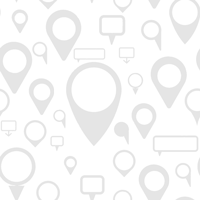
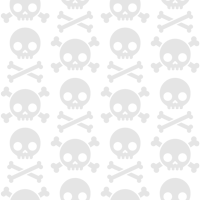
got remaining functionality working, removed unused files, still needs live testing

diff --git a/templates/index.html b/templates/index.html
@@ -1,7 +1,7 @@
 <!doctype html>
 <html lang="en">
   <head>
-    <title>RasPi Ruxpin</title>
+    <title>RasPi Ruxpin - {{ character.name }}</title>
 
     <meta charset="utf-8" />
     <meta name="description" content="Make the bear talk" />
@@ -11,7 +11,7 @@
     <link href="https://cdn.jsdelivr.net/npm/bootstrap@5.1.3/dist/css/bootstrap.min.css" rel="stylesheet" integrity="sha384-1BmE4kWBq78iYhFldvKuhfTAU6auU8tT94WrHftjDbrCEXSU1oBoqyl2QvZ6jIW3" crossorigin="anonymous" />
     <link href="/public/css/main.css" rel="stylesheet" type="text/css" />
 
-    <script src="https://use.fontawesome.com/12a0b300c5.js"></script>
+    <script src="https://kit.fontawesome.com/fb88151f7c.js" crossorigin="anonymous"></script>
   </head>
   <body>
     <div id="app" class="container">
@@ -21,7 +21,7 @@
           <div class="row">
             <legend class="col-form-label col-3 pt-0">Status</legend>
             <div class="col-5">
-              <h1><span class="badge badge-lg" v-bind:class="this.$socket.connected ? 'bg-success' : 'bg-danger'">{%raw%}{{ this.$socket.connected ? 'connected' : 'disconnected' }}{%endraw%}</span></h1>
+              <h2><span class="badge" v-bind:class="this.$socket.connected ? 'bg-success' : 'bg-danger'">{%raw%}{{ this.$socket.connected ? 'connected' : 'disconnected' }}{%endraw%}</span></h2>
             </div>
           </div>
           <div class="row mb-3">
@@ -37,8 +37,8 @@
         <div class="row mb-3 card-body">
           <div class="col-6">
             <map name="mapBear">
-              <area shape="rect" coords="0,0,200,100" alt="toggle eye state" @click="toggleEyes()" />
-              <area shape="rect" coords="0,100,200,200" alt="toggle mouth state" @click="toggleMouth()" />
+              <area shape="rect" coords="0,0,200,100" alt="toggle eye state" @click="toggleFeature('eyes')" />
+              <area shape="rect" coords="0,100,200,200" alt="toggle mouth state" @click="toggleFeature('mouth')" />
             </map>
             <img v-bind:src="bearimg" class="img-fluid mx-auto d-block" usemap="#mapBear">  
           </div>
@@ -67,28 +67,21 @@
       <div v-if="mode=='speak'" id="divSpeakMode" class="card">
         <div class="card-body">
           <div class="row mb-3">
-            <legend class="col-form-label col-3 pt-0">Volume</legend>
+            <legend class="col-form-label col-3 pt-0">Volume ({%raw%}{{volume}}{%endraw%})</legend>
             <div class="col-9">
-              <div class="input-group">
-                <input id="txtVolume" class="form-control" placeholder="70">
-                <span class="input-group-btn">
-                  <button id="btnVolume" class="btn btn-primary">
-                    <span class="fa fa-volume-up" role="status" aria-hidden="true"></span>
-                  </button>
-                </span>
-              </div>
+              <input type="range" class="form-range" min="0" max="100" step="10" v-model="volume" @change="setVolume" :disabled="playing || speaking" />
             </div>
           </div>
           <div class="row mb-3">
             <div class="col-12">
               <div class="input-group">
-                <select v-model="filename" class="form-control">
+                <select v-model="filename" class="form-control" :disabled="playing || speaking">
                   <option value="">Select a pre-recorded sound file</option>
                   <option v-for="(value, key) in phrases" v-bind:value="key">{%raw%}{{ value }}{%endraw%}</option>
                 </select>
                 <span class="input-group-btn">
-                  <button class="btn btn-primary" @click="play">
-                    <span id="spnPlayIcon" class="fa fa-play-circle" role="status" aria-hidden="true"></span>
+                  <button class="btn btn-primary" @click="play" :disabled="playing || speaking">
+                    <span v-bind:class="playing ? 'spinner-border spinner-border-sm' : 'fa fa-play-circle'" role="status" aria-hidden="true"></span>
                   </button>
                 </span>
               </div>
@@ -97,10 +90,10 @@
           <div class="row">
             <div class="col-12">
               <div class="input-group">
-                <input id="txtPhrase" name="speech" class="form-control" placeholder="Type anything here and the bear will say it...">
+                <input class="form-control" placeholder="Type anything here and the bear will say it..." v-model="phrase" :disabled="playing || speaking" v-on:keyup.enter="speak" />
                 <span class="input-group-btn">
-                  <button id="btnSpeak" class="btn btn-primary">
-                    <span id="spnSpeakIcon" class="fa fa-bullhorn" role="status" aria-hidden="true"></span>
+                  <button class="btn btn-primary" @click="speak" :disabled="playing || speaking">
+                    <span v-bind:class="speaking ? 'spinner-border spinner-border-sm' : 'fa fa-bullhorn'" role="status" aria-hidden="true"></span>
                   </button>
                 </span>
               </div>

diff --git a/public/js/app.js b/public/js/app.js
@@ -11,15 +11,16 @@ var app = new Vue({
   el: '#app',
   data: {
     mode: 'puppet',
-    speaking: false,
     bear: {
       eyes: false,
       mouth: false
     },
     volume: 70,
     speaking: false,
+    playing: false,
     phrases: {},
-    filename: ''
+    filename: '',
+    phrase:''
   },
   computed: {
     bearimg: {
@@ -48,27 +49,42 @@ var app = new Vue({
     },
     phrases_fetched: function(data){
       this.phrases = data;
+    },
+    volume_set: function(level){
+      console.log(`volume set to ${level}`);
+    },
+    playing_done: function(){
+      this.playing = false;
+      console.log('done playing');
+    },
+    speaking_done: function(){
+      this.speaking = false;
+      console.log('done speaking');
     }
   },
   methods: {
     setMode: function(mode){
       this.mode = mode;
     },
-    toggleEyes: function(){
-      this.bear.eyes = !this.bear.eyes;
-      this.updateBear();
-    },
-    toggleMouth: function(){
-      this.bear.mouth = !this.bear.mouth;
+    toggleFeature: function(feature){
+      this.bear[feature] = !this.bear[feature];
       this.updateBear();
     },
     updateBear: function(){
       this.$socket.client.emit('update_bear', this.bear);
     },
+    setVolume: function(){
+      this.$socket.client.emit('set_volume', parseInt(this.volume));
+    },
     play: function(){
-      if(this.filename!==''){
-        this.$socket.client.emit('play', this.filename);
-      }
+      if(this.filename=='') return;
+      this.playing = true;
+      this.$socket.client.emit('play', this.filename);
+    },
+    speak: function(){
+      if(this.phrase=='') return;
+      this.speaking = true;
+      this.$socket.client.emit('speak', this.phrase);
     }
   }
 });

diff --git a/public/css/main.css b/public/css/main.css
@@ -1,5 +1,5 @@
 body{
-  background-image: url(/public/img/bg_naughty.png)
+  background-image: url(/public/img/bg.png)
 }
 
 area:focus{

diff --git a/mock/bear.py b/mock/bear.py
@@ -1,14 +1,18 @@
 #!/usr/bin/env python
-import logging
+import logging, subprocess
 
 from time import sleep
 from threading import Thread
 from mock.servo import Servo
+from mock.audioPlayer import AudioPlayer
 
 class Bear:
   def __init__(self, config):
     self.isRunning = False
     self.isTalking = False
+
+    # attach audio player
+    self.audio = AudioPlayer(config)
 
     # add list of supported phrases
     self.phrases = config.phrases
@@ -76,9 +80,12 @@ class Bear:
       sleep(1)
 
   def play(self, filename):
-   logging.debug('playing: "{}"'.format(filename))   
-   sleep(2)
+    logging.debug('playing: "{}"'.format(filename));
+    self.audio.play("public/sounds/"+filename+".wav");    
 
   def say(self, text):
-   logging.debug('saying: "{}"'.format(text))
-   self.play("espeak")
+    logging.debug('saying: "{}"'.format(text))
+    subprocess.run([
+      "say", 
+      text
+    ]);

diff --git a/mock/audioPlayer.py b/mock/audioPlayer.py
@@ -1,4 +1,4 @@
-import logging
+import logging, subprocess
 from time import sleep
 
 class AudioPlayer:
@@ -8,9 +8,19 @@ class AudioPlayer:
     self.mouthValue = 0
     self.setVolume(100)
     
-  def setVolume(self, volume=75):
-    logging.debug("volume set at {}").format(volume)
+  def setVolume(self, volume=70):
+    normalizedVolume = volume/10;
+    cmd = "set Volume {}".format(normalizedVolume)
+    subprocess.run([
+      'osascript',
+      '-e',
+      cmd
+    ]);
+    logging.debug("volume set at {}".format(volume))
 
   def play(self,fileName):
     logging.debug("playing file: {}".format(fileName))
-    sleep(2)
+    subprocess.run([
+      'afplay', 
+      fileName
+    ]);

diff --git a/lib/webServer.py b/lib/webServer.py
@@ -45,8 +45,8 @@ class WebServer:
 
     @sio.on('set_volume')
     async def volume(sid, level):
-      if(level > 10 and level < 90): bear.audio.setVolume(level)
-      await sio.emit('volume_set')
+      if(level >= 0 and level <= 100): bear.audio.setVolume(level)
+      await sio.emit('volume_set', level)
 
     @sio.on('fetch_phrases')
     async def fetch_phrases(sid):
